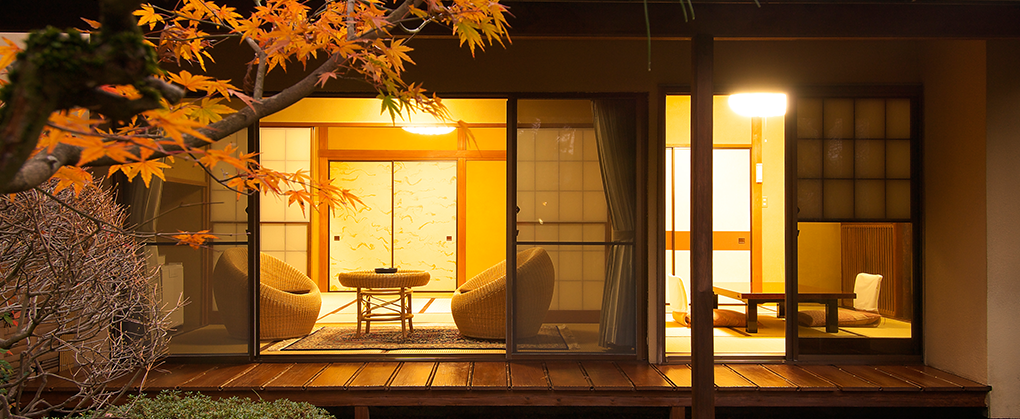
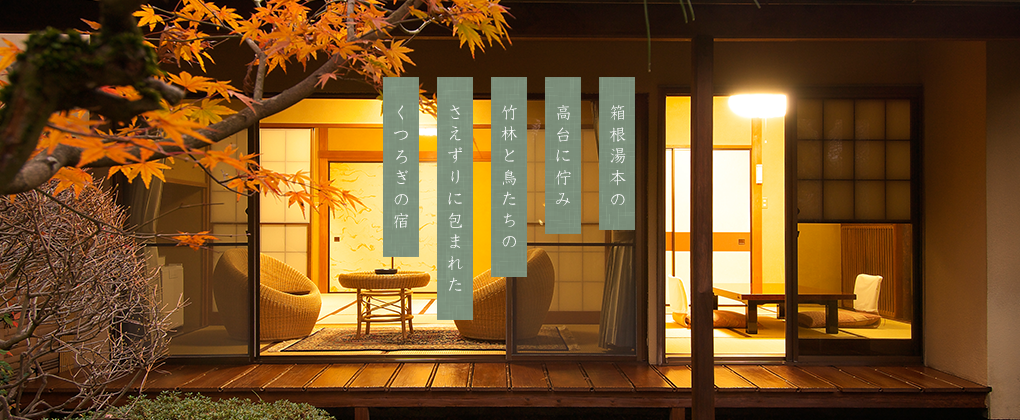
changed slider image

diff --git a/coding_/js/jquery.bxslider.js b/coding_/js/jquery.bxslider.js
@@ -19,7 +19,7 @@
 		slideSelector: '',
 		infiniteLoop: true,
 		hideControlOnEnd: false,
-		speed: 500,
+		speed: 3000,
 		easing: null,
 		slideMargin: 0,
 		startSlide: 0,
@@ -52,7 +52,7 @@
 		pagerCustom: null,
 
 		// CONTROLS
-		controls: true,
+		controls: false,
 		nextText: 'Next',
 		prevText: 'Prev',
 		nextSelector: null,

diff --git a/coding_/css/jquery.bxslider.css b/coding_/css/jquery.bxslider.css
@@ -48,7 +48,7 @@
 
 .bx-wrapper .bx-loading {
 	min-height: 50px;
-	background: url(images/bx_loader.gif) center center no-repeat #fff;
+	/*background: url(images/bx_loader.gif) center center no-repeat #fff;*/
 	height: 100%;
 	width: 100%;
 	position: absolute;

diff --git a/coding_/index.php b/coding_/index.php
@@ -4,8 +4,8 @@
     <div id="bxslider-area">
       <ul id="bxslider">
         <li><img src="./images/pic-bxslider-01.png" alt=""></li>
-        <li><img src="./images/pic-bxslider-01.png" alt=""></li>
-        <li><img src="./images/pic-bxslider-01.png" alt=""></li>
+        <li><img src="./images/pic-bxslider-02.png" alt=""></li>
+        <li><img src="./images/pic-bxslider-03.png" alt=""></li>
       </ul>
     </div>
     <div class="index-comment">
